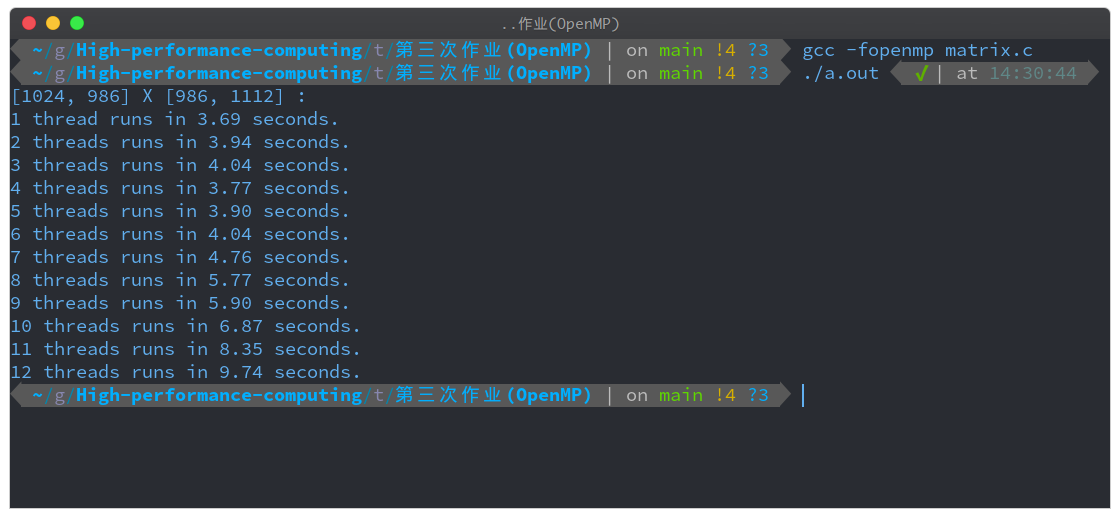
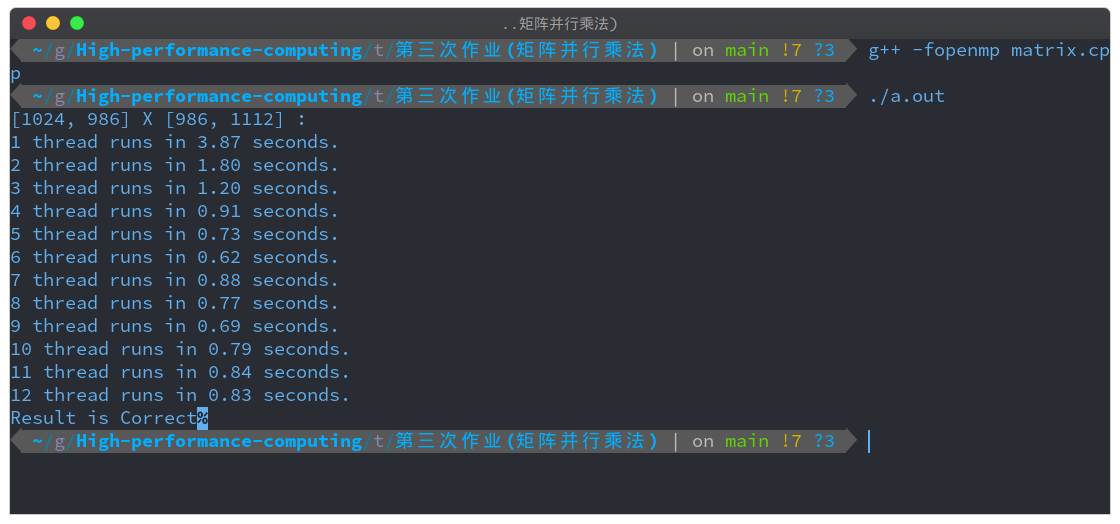
modify second, third homework

Changed region(s): [[0.0, 0.0309, 1.0, 0.8649]]

diff --git a/tasks/第三次作业(矩阵并行乘法)/matrix.cpp b/tasks/第三次作业(矩阵并行乘法)/matrix.cpp
@@ -1,13 +1,17 @@
 #include <stdio.h>
 #include <stdlib.h>
-#include <time.h> 
+#include <chrono> 
+#include <math.h>
 #include <omp.h>
+#include <iostream>
 
 // 第一个矩阵的维度是：[row1, col1]
 // 第二个矩阵的维度是：[col1, col2]
 #define row1 2213
 #define col1 3124
 #define col2 2569
+
+using namespace std;
 
 // 第一个矩阵
 float m1[row1][col1];
@@ -59,33 +63,50 @@ void matrixMultiOMP(int num){
     }
 }
 
+//  判断串行结果和并行结果是否一致
+int judge_euqal(){
+    int flag = 0;
+    for (int i = 0; i < row1; i++){
+        for (int j = 0; j < col2; j++){
+            if (abs(r1[i][j] - r2[i][j]) > 1e-6){
+                flag = 1;
+            }
+        }
+    }
+    return flag;
+}
+
 int main(int argc, char const *argv[])
 {   
     printf("[%d, %d] X [%d, %d] : \n", row1, col1, col1, col2);
-
-    // 运行 10 次观察结果
-    int epochs = 10;
-    // 线程数量
-    int num_threads = 12;
-    // 计时
-    clock_t start, end; 
     // 初始化矩阵 
     init_randon_matrix((float *)m1, row1, col1);
     init_randon_matrix((float *)m2, col1, col2);
 
+    // 线程数量
+    int num_threads = 12;
+
     // 串行计时
-    start = clock(); 
+    auto start = std::chrono::system_clock::now();
     matirxMulti();
-    end = clock();  
-    printf("1 thread runs in %.2f seconds.\n", (double)(end-start) / CLOCKS_PER_SEC );  
+    auto end  = std::chrono::system_clock::now();
+    std::chrono::duration<double> time_span = std::chrono::duration_cast<std::chrono::duration<double>>(end - start);
+    printf("1 thread runs in %.2f seconds.\n", time_span);
 
     // 从 2 个线程一直到 12 个线程，纪录实验结果
     for (int num = 2; num <= num_threads; num++){        
         // 并行计时
-        start = clock(); 
+        start = std::chrono::system_clock::now();
         matrixMultiOMP(num);
-        end = clock();  
-        printf("%d threads runs in %.2f seconds.\n", num, (double)(end-start) / CLOCKS_PER_SEC ); 
+        end = std::chrono::system_clock::now();
+        time_span = std::chrono::duration_cast<std::chrono::duration<double>>(end - start);
+        printf("%d thread runs in %.2f seconds.\n", num, time_span);
     }
+    
+    //  判断串行结果和并行结果是否一致
+    int flag = judge_euqal();
+
+    flag == 0 ? printf("Result is Correct") : printf("Result is Error");
+
     return 0;
 }

diff --git a/tasks/第二次作业(创建线程)/code.c b/tasks/第二次作业(创建线程)/code.c
@@ -9,7 +9,7 @@ int g = 0;
 void* count(void* args){
     g++;
 }
- 
+
 int main(){
     // 定义线程的 id 变量，多个变量使用数组
     pthread_t tids[NUM_THREADS];
@@ -21,5 +21,6 @@ int main(){
             printf("pthread_create error: error_code = %d", ret);
         }
     }
+    pthread_join(*tids, NULL);
     printf("g = %d", g);
 }

diff --git a/tasks/第四次作业(矩阵并行乘法加速比)/README.md b/tasks/第四次作业(矩阵并行乘法加速比)/README.md
@@ -1,6 +1,6 @@
 ## 代码执行环境依赖：
 
-1. gcc版本: 10.2.0
+1. g++版本: 10.2.0
 2. OS: Manjaro Linux 20.1.1
 3. 物理硬件：CPU为6核12线程
 4. 编译方式：`g++ -fopenmp matrix.c`
@@ -27,21 +27,7 @@
 
 ### 实验结果与分析
 
-[1500, 2000] X [2000, 1200] : 
-1 thread runs in 17.43 seconds.
-2 thread runs in 8.74 seconds.
-3 thread runs in 5.79 seconds.
-4 thread runs in 4.35 seconds.
-5 thread runs in 3.51 seconds.
-6 thread runs in 2.97 seconds.
-7 thread runs in 3.65 seconds.
-8 thread runs in 3.39 seconds.
-9 thread runs in 2.97 seconds.
-10 thread runs in 2.99 seconds.
-11 thread runs in 2.93 seconds.
-12 thread runs in 3.14 seconds.
-
-17.43, 8.74, 5.79, 4.35, 3.51, 2.97, 3.65, 3.39, 2.97, 2.99, 2.93, 3.14
+![](m1.png)
 
 [854, 634] X [634, 732] : 
 1 thread runs in 1.29 seconds.
@@ -57,4 +43,24 @@
 11 thread runs in 0.22 seconds.
 12 thread runs in 0.22 seconds.
 
-1.29, 0.65, 0.45, 0.35, 0.28, 0.22, 0.28, 0.27, 0.23, 0.24, 0.22, 0.22
+加速比与效率：
+
+![](1.png)
+
+![](m2.png)
+
+[1500, 2000] X [2000, 1200] : 
+1 thread runs in 17.43 seconds.
+2 thread runs in 8.74 seconds.
+3 thread runs in 5.79 seconds.
+4 thread runs in 4.35 seconds.
+5 thread runs in 3.51 seconds.
+6 thread runs in 2.97 seconds.
+7 thread runs in 3.65 seconds.
+8 thread runs in 3.39 seconds.
+9 thread runs in 2.97 seconds.
+10 thread runs in 2.99 seconds.
+11 thread runs in 2.93 seconds.
+12 thread runs in 3.14 seconds.
+
+![](2.png)
